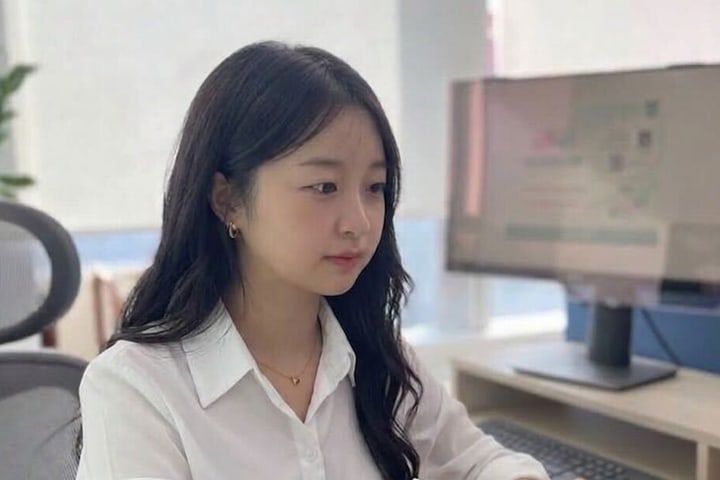
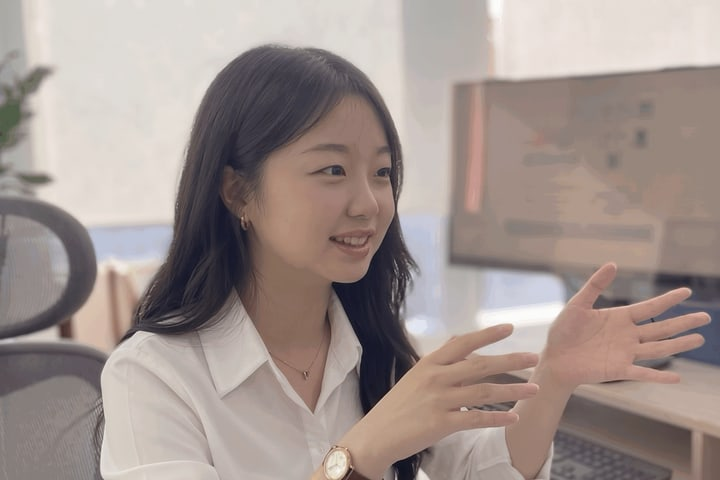
Re-import: swap in a new portrait for 오주영
The artifact replaced both the speaker-card photo and the timetable
thumbnail with a different shot of the same person, so ASSET_NAMES maps
the new hashes to the same filenames and the URLs stay put.

Japanese job titles also change: 総括 → 統括 for 이주희, and 오주영's
reads 統括責任者 to match the Korean 총괄책임.

Claude-Session: https://claude.ai/code/session_01SChCWEoLB8VTT8diAXE1zq

diff --git a/summit-2026/assets/js/main.js b/summit-2026/assets/js/main.js
@@ -530,15 +530,15 @@ ja: {
 "마지막 순서(15:00~15:20)에 현장에서 진행합니다. 응모하시려면 <a href=\"https://kr.linkedin.com/company/shoplive\" target=\"_blank\" rel=\"noopener\">Shoplive 링크드인</a> 팔로우가 필요하며, 당첨자는 현장에서 바로 안내해 드립니다. 자리를 비우신 경우 재추첨될 수 있습니다.": "最後のプログラム（15:00~15:20）に会場で実施します。ご応募には<a href=\"https://kr.linkedin.com/company/shoplive\" target=\"_blank\" rel=\"noopener\">Shoplive LinkedIn</a>のフォローが必要です。当選者は会場でその場でご案内します。席を外されている場合は再抽選となることがあります。",
 "헬스·웰니스": "ヘルス・ウェルネス",
 "건강·웰니스 라이브, 관심을 구매로 바꾸는 방법": "健康・ウェルネスライブ、関心を購買に変える方法",
-"<b>이주희</b> 풀리오 파트장 (라이브커머스 총괄)": "<b>イ・ジュヒ</b> パートリーダー（ライブコマース総括）、Pulio",
+"<b>이주희</b> 풀리오 파트장 (라이브커머스 총괄)": "<b>イ・ジュヒ</b> パートリーダー（ライブコマース統括）、Pulio",
 "건강·웰니스 라이브, 관심을 구매로 바꾸는 방법<small>이주희 파트장 / 풀리오</small>": "健康・ウェルネスライブ、関心を購買に変える方法<small>イ・ジュヒ パートリーダー / Pulio</small>",
 "이주희 파트장 / 풀리오": "イ・ジュヒ パートリーダー / Pulio",
 "풀리오 라이브 사례를 통해 건강·웰니스 제품의 특성에 맞는 콘텐츠와 소통 전략, 고객의 관심을 구매로 전환하는 라이브커머스 운영 노하우를 소개합니다.": "Pulioの実際のライブ事例を通じて、健康・ウェルネス製品の特性に合ったコンテンツとコミュニケーション戦略、顧客の関心を購買につなげるライブコマース運営ノウハウを紹介します。",
 "금융": "金融",
 "어려운 금융, 라이브로 어떻게 고객과 소통하는가?": "難しい金融、ライブで顧客とどうコミュニケーションするか？",
-"<b>오주영</b> 하나은행 데이터마케팅팀 라이브커머스 총괄책임": "<b>オ・ジュヨン</b> データマーケティングチーム ライブコマース総括、ハナ銀行",
-"어려운 금융, 라이브로 어떻게 고객과 소통하는가?<small>오주영 총괄책임 / 하나은행</small>": "難しい金融、ライブで顧客とどうコミュニケーションするか？<small>オ・ジュヨン 総括 / ハナ銀行</small>",
-"오주영 총괄책임 / 하나은행": "オ・ジュヨン 総括 / ハナ銀行",
+"<b>오주영</b> 하나은행 데이터마케팅팀 라이브커머스 총괄책임": "<b>オ・ジュヨン</b> データマーケティングチーム ライブコマース統括責任者、ハナ銀行",
+"어려운 금융, 라이브로 어떻게 고객과 소통하는가?<small>오주영 총괄책임 / 하나은행</small>": "難しい金融、ライブで顧客とどうコミュニケーションするか？<small>オ・ジュヨン 統括責任者 / ハナ銀行</small>",
+"오주영 총괄책임 / 하나은행": "オ・ジュヨン 統括責任者 / ハナ銀行",
 "금융 상품 소개부터 채용, 브랜드 커뮤니케이션까지 금융사는 라이브를 통해 고객과 어떻게 소통하는지 알아봅니다.": "金融商品の紹介から採用、ブランドコミュニケーションまで、金融会社がライブを通じて顧客とどのようにコミュニケーションしているかを紹介します。",
 "라이브 기술이 만드는 <span>확장과 기회</span>": "ライブ技術がひらく<span>拡張と成長の機会</span>",
 "라이브커머스를 이끄는<br /><em>각 분야의 리더</em>들이 한 자리에": "ライブコマースを牽引する<br /><em>各分野のリーダー</em>が一堂に会する",

diff --git a/tools/import_artifact.py b/tools/import_artifact.py
@@ -62,7 +62,7 @@ ASSET_NAMES = {
     "7daea379": "img/speaker-choi-young.jpg",
     "694c383d": "img/speaker-kim-siyoung.jpg",
     "21edb412": "img/speaker-lee-juhee.jpg",
-    "d2539580": "img/speaker-oh-juyoung.jpg",
+    "3a1fc87d": "img/speaker-oh-juyoung.jpg",
     "6be1c3ef": "img/speaker-lee-gyuwon.jpg",
     "ec459dd8": "img/speaker-onishi-kiyotaka.png",
     # timetable thumbnails
@@ -74,7 +74,7 @@ ASSET_NAMES = {
     "7bec7693": "img/timetable-choi-young.jpg",
     "f73567d4": "img/timetable-lee-gyuwon.jpg",
     "cad82cea": "img/timetable-lee-juhee.jpg",
-    "cde806bd": "img/timetable-oh-juyoung.jpg",
+    "a08a9787": "img/timetable-oh-juyoung.jpg",
     "bf226bc9": "img/timetable-kim-siyoung.jpg",
     # perks
     "9ef7a946": "img/perk-demo-booth.webp",
